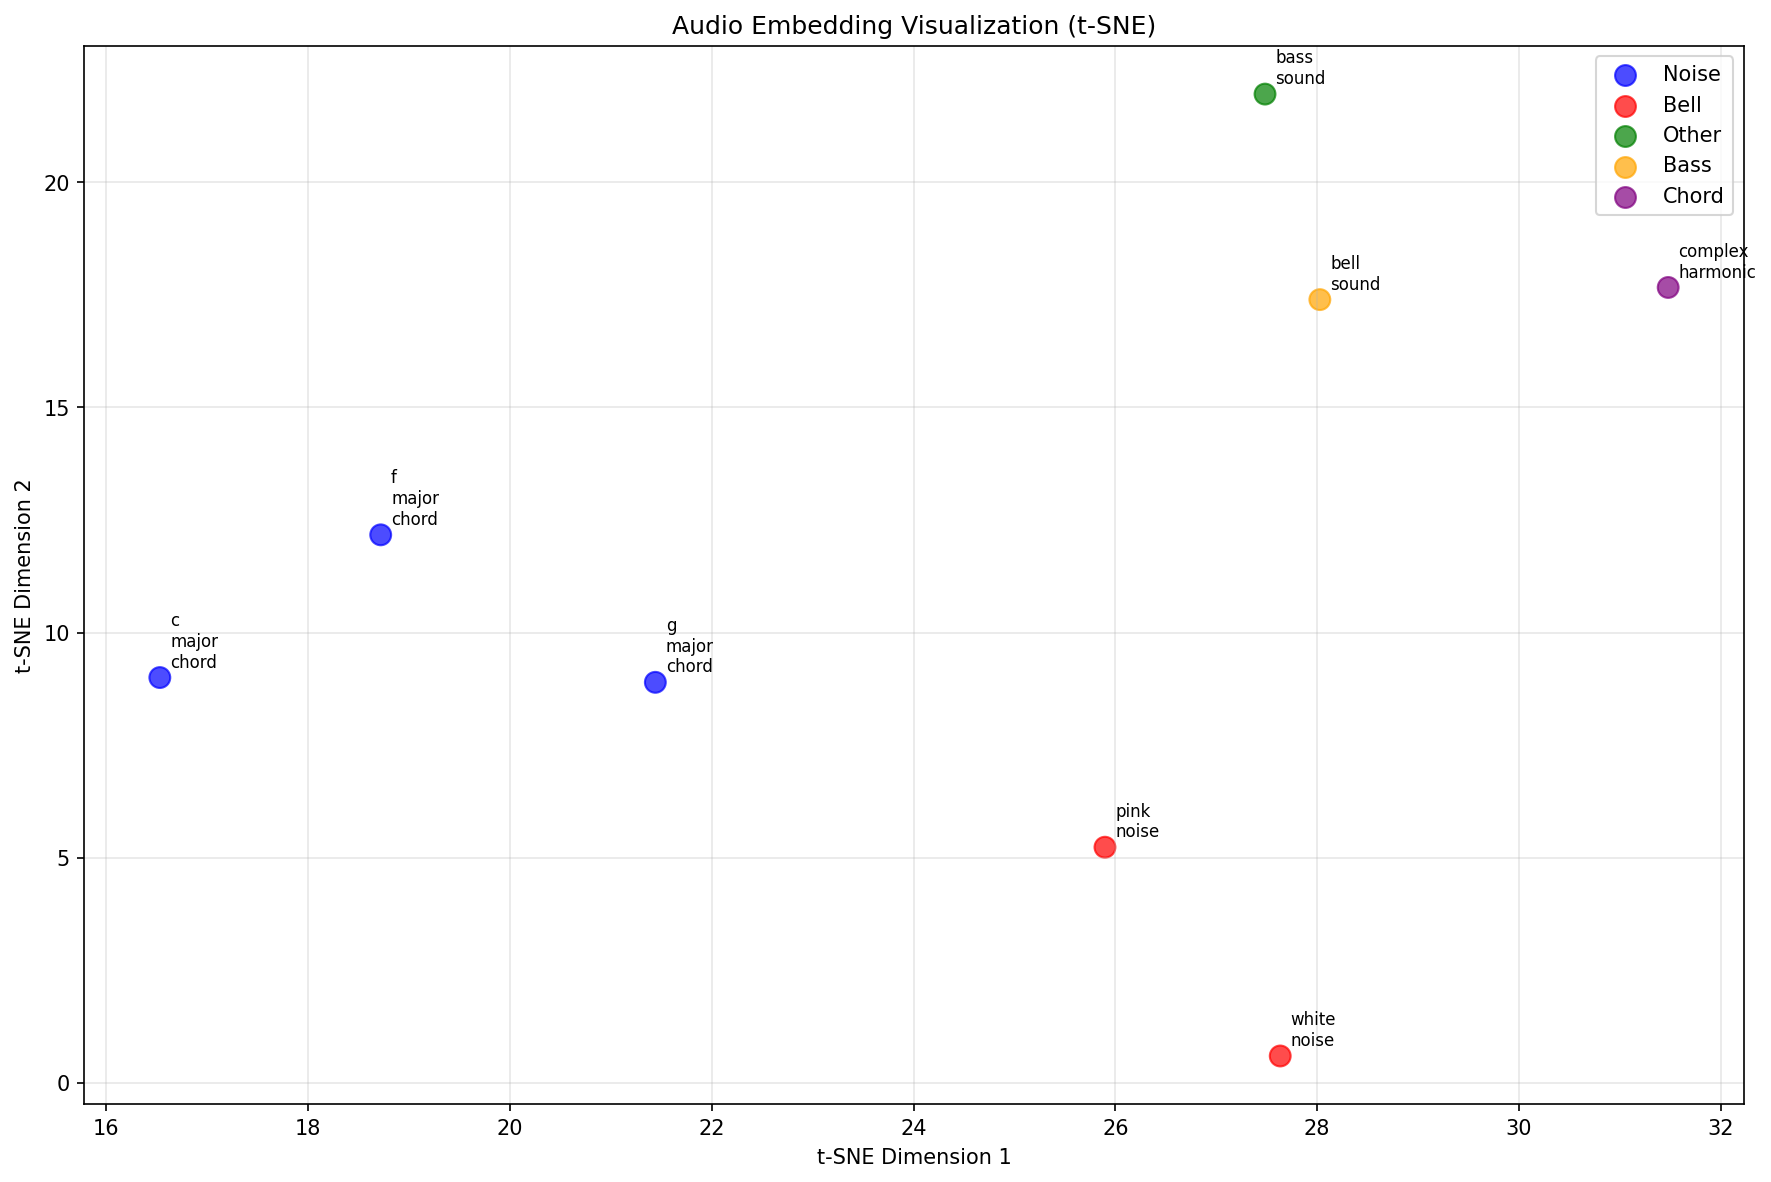
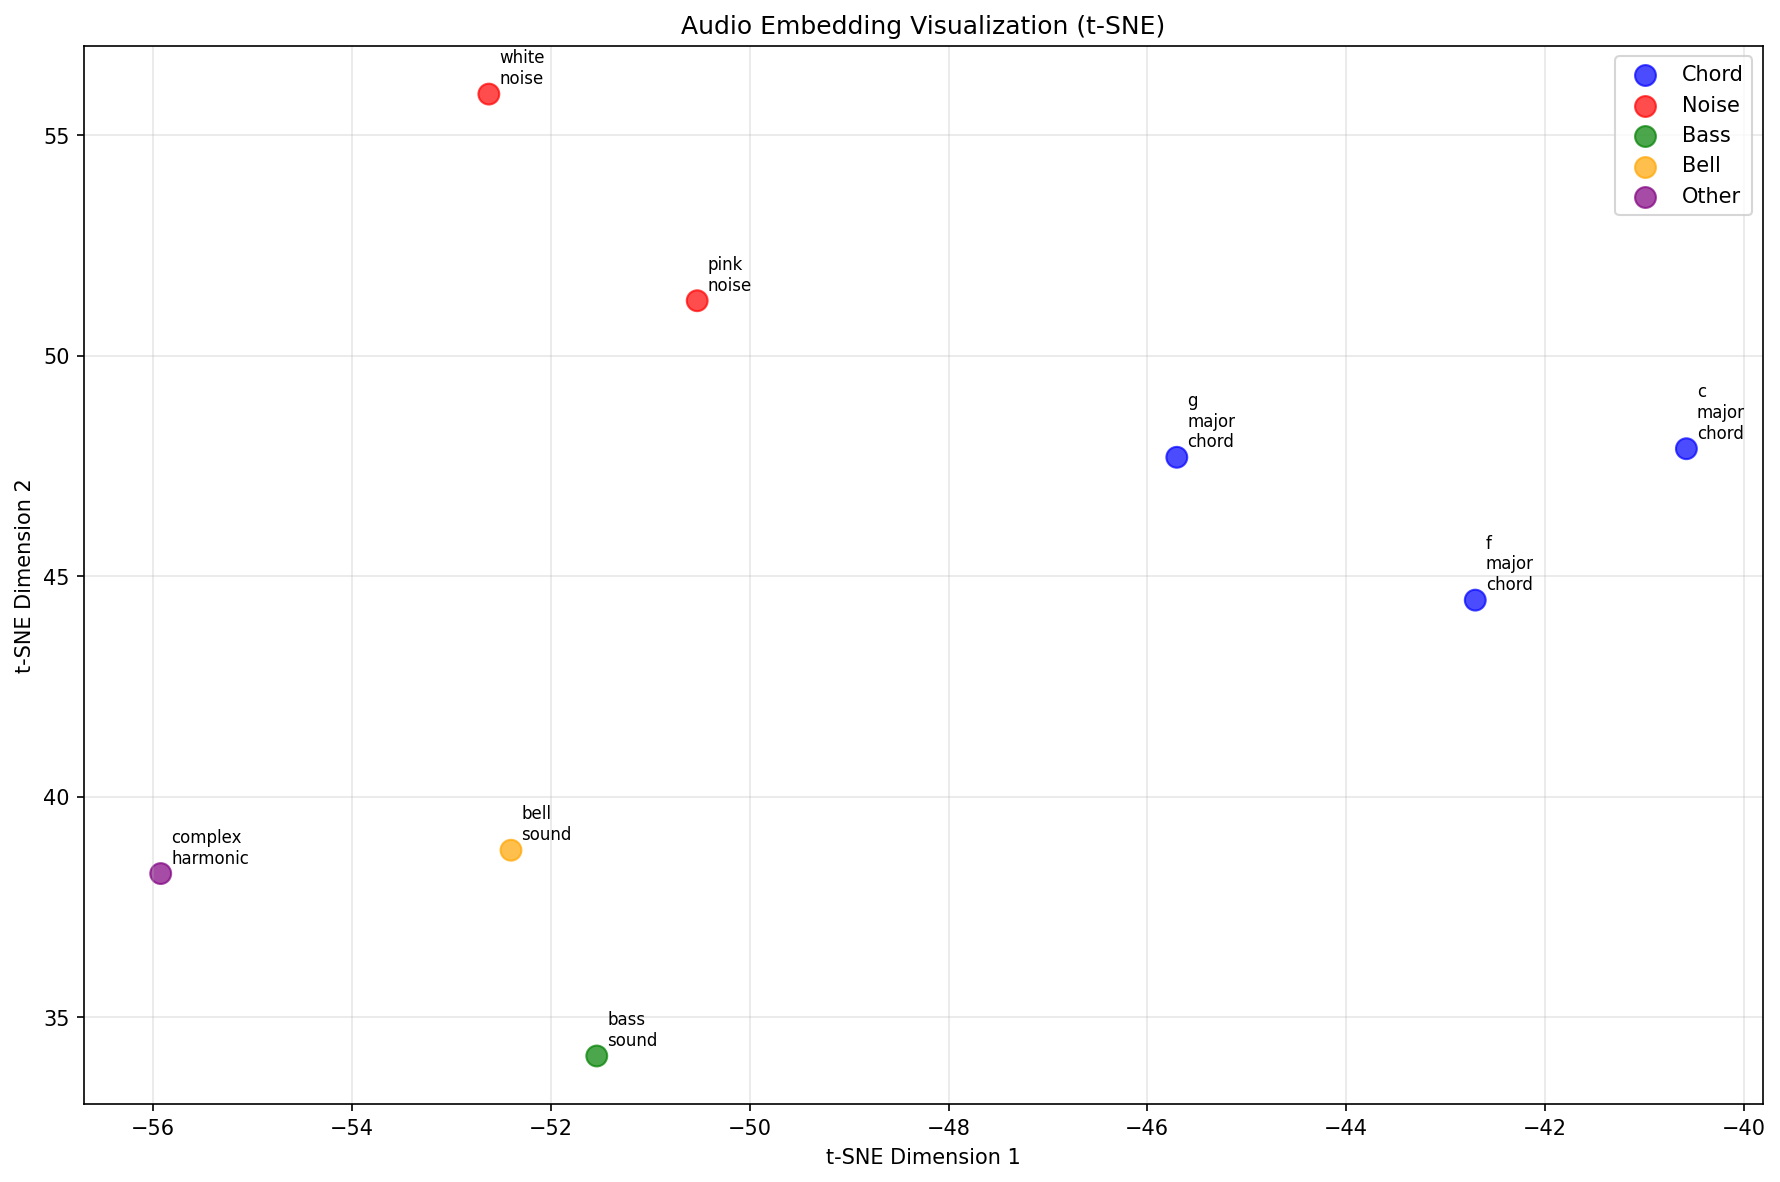
Fixed plot

diff --git a/compare_embeddings.py b/compare_embeddings.py
@@ -169,25 +169,30 @@ def visualize_embeddings(embeddings_dict, output_path="embedding_visualization.p
     # Create visualization
     plt.figure(figsize=(12, 8))
     
+    # Define color mapping
+    color_map = {
+        'Chord': 'blue',
+        'Noise': 'red', 
+        'Bass': 'green',
+        'Bell': 'orange',
+        'Other': 'purple'
+    }
+    
     # Color code by type
     colors = []
     labels = []
     for sid in song_ids:
         if 'chord' in sid:
-            colors.append('blue')
             labels.append('Chord')
         elif 'noise' in sid:
-            colors.append('red')
             labels.append('Noise')
         elif 'bass' in sid:
-            colors.append('green')
             labels.append('Bass')
         elif 'bell' in sid:
-            colors.append('orange')
             labels.append('Bell')
         else:
-            colors.append('purple')
             labels.append('Other')
+        colors.append(color_map[labels[-1]])
     
     plt.scatter(embeddings_2d[:, 0], embeddings_2d[:, 1], c=colors, s=100, alpha=0.7)
     
@@ -201,11 +206,10 @@ def visualize_embeddings(embeddings_dict, output_path="embedding_visualization.p
     plt.ylabel('t-SNE Dimension 2')
     plt.grid(True, alpha=0.3)
     
-    # Create legend
-    unique_labels = list(set(labels))
-    unique_colors = ['blue', 'red', 'green', 'orange', 'purple'][:len(unique_labels)]
-    for label, color in zip(unique_labels, unique_colors):
-        plt.scatter([], [], c=color, label=label, s=100, alpha=0.7)
+    # Create legend with correct color mapping
+    for label, color in color_map.items():
+        if label in labels:  # Only show labels that exist in the data
+            plt.scatter([], [], c=color, label=label, s=100, alpha=0.7)
     plt.legend()
     
     plt.tight_layout()

diff --git a/README.md b/README.md
@@ -1,25 +1,25 @@
-# Audio Embeddings with OpenL3
+# Audio Embedding Similarity Search
 
-Generate and analyze deep audio embeddings using OpenL3 for music similarity detection and clustering.
+Generate deep audio embeddings using OpenL3 and perform perceptual similarity search across audio content.
 
 ## Embedding Visualization
 
 ![Embedding Visualization](embedding_visualization.png)
 
-*t-SNE visualization showing how different audio types cluster in the embedding space*
+*Similar audio types (chords, noise, harmonics) form distinct clusters in the 2D projection of 512-dimensional embedding space*
 
 ## Test Audio Dataset
 
 The system is validated using synthetic audio with distinct characteristics:
 
-- **c_major_chord.mp3** - C major chord (C-E-G notes)
-- **g_major_chord.mp3** - G major chord (G-B-D notes) 
-- **f_major_chord.mp3** - F major chord (F-A-C notes)
-- **bass_sound.mp3** - Low frequency sine wave (80 Hz)
-- **bell_sound.mp3** - High frequency sine wave (1000 Hz)
-- **complex_harmonic.mp3** - Multi-frequency harmonic series (220, 440, 880, 1320 Hz)
-- **white_noise.mp3** - Random white noise
-- **pink_noise.mp3** - Pink noise (1/f spectrum)
+- **[c_major_chord.mp3](previews/c_major_chord.mp3)** - C major chord (C-E-G notes)
+- **[g_major_chord.mp3](previews/g_major_chord.mp3)** - G major chord (G-B-D notes) 
+- **[f_major_chord.mp3](previews/f_major_chord.mp3)** - F major chord (F-A-C notes)
+- **[bass_sound.mp3](previews/bass_sound.mp3)** - Low frequency sine wave (80 Hz)
+- **[bell_sound.mp3](previews/bell_sound.mp3)** - High frequency sine wave (1000 Hz)
+- **[complex_harmonic.mp3](previews/complex_harmonic.mp3)** - Multi-frequency harmonic series (220, 440, 880, 1320 Hz)
+- **[white_noise.mp3](previews/white_noise.mp3)** - Random white noise
+- **[pink_noise.mp3](previews/pink_noise.mp3)** - Pink noise (1/f spectrum)
 
 ## Overview
 
